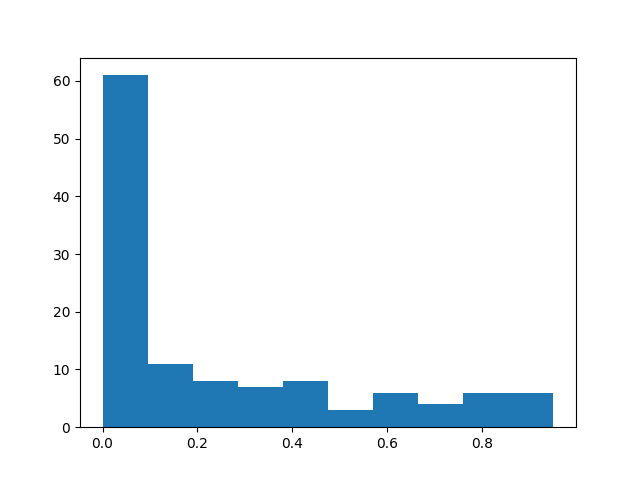
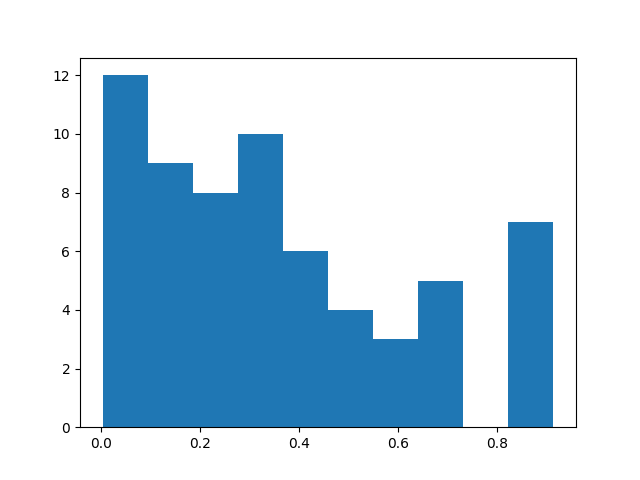
BIC exp

diff --git a/overconditioning.py b/overconditioning.py
@@ -34,7 +34,7 @@ def interval_DA(ns, nt, X_, B, S_, h_, a, b):
         interval = intersection.Intersec(interval, itv)
     return interval
 
-def interval_SFS(X, Y, K, lst_SELEC_k, lst_Portho, a, b):
+def interval_SFSabs(X, Y, K, lst_SELEC_k, lst_Portho, a, b):
     n_sample, n_fea = X.shape
 
     A=[]
@@ -94,6 +94,36 @@ def interval_SFS(X, Y, K, lst_SELEC_k, lst_Portho, a, b):
                 Vminus = max(Vminus, temp)
     return Vminus, Vplus
     # return np.around(Vminus, 10), np.around(Vplus, 10)
+def interval_SFS(X, Y, K, lst_SELEC_k, lst_Portho, a, b):
+    n_sample, n_fea = X.shape
+    intervals = [(-np.inf, np.inf)]
+    if K == n_fea:
+        return intervals
+    
+    I = np.identity(n_sample)  
+    for step in range(1, K + 1):
+        jk = lst_SELEC_k[-1]
+        X_jk = X[:, sorted(lst_SELEC_k[step])].copy()
+        Pjk = I - np.dot(np.dot(X_jk, np.linalg.inv(np.dot(X_jk.T, X_jk))), X_jk.T)
+
+        Pjk_a = Pjk.dot(a)
+        Pjk_b = Pjk.dot(b)
+        for j in range(n_fea):
+            if j not in lst_SELEC_k[step]:
+                Mj = lst_SELEC_k[step-1] + [j]
+                X_j = X[:, sorted(Mj)].copy()
+                Pj = I - np.dot(np.dot(X_j, np.linalg.inv(np.dot(X_j.T, X_j))), X_j.T)
+                Pj_a = Pj.dot(a)
+                Pj_b = Pj.dot(b)
+
+                g1 = Pjk_a.T.dot(Pjk_a) - Pj_a.T.dot(Pj_a)
+                g2 = Pjk_a.T.dot(Pjk_b) + Pjk_b.T.dot(Pjk_a) - Pj_a.T.dot(Pj_b) - Pj_b.T.dot(Pj_a)
+                g3 = Pjk_b.T.dot(Pjk_b) - Pj_b.T.dot(Pj_b)
+                g1, g2, g3 = g1.item(), g2.item(), g3.item()
+                itv = intersection.solve_quadratic_inequality(g3, g2, g1)
+
+                intervals = intersection.Intersec(intervals, itv)
+    return intervals 
 
 
 def interval_AIC(X, Y, Portho, K, a, b, Sigma, seed = 0):
@@ -167,21 +197,26 @@ def interval_AdjustedR2(X, Y, Portho, K, a, b, Sigma, seed = 0):
 
             intervals = intersection.Intersec(intervals, itv)
     return intervals 
-def OC_AIC_interval(ns, nt, a, b, XsXt_, Xtilde, Ytilde, Sigmatilde, B, S_, h_, SELECTION_F, GAMMA,seed = 0):
+def OC_Crit_interval(ns, nt, a, b, XsXt_, Xtilde, Ytilde, Sigmatilde, B, S_, h_, SELECTION_F, GAMMA,seed = 0):
 
     lst_SELECk, lst_P = ForwardSelection.list_residualvec(Xtilde, Ytilde)
 
     itvDA = interval_DA(ns, nt, XsXt_, B, S_, h_, a, b)
-    itvFS = [interval_SFS(Xtilde, Ytilde, 
+    itvFS = interval_SFS(Xtilde, Ytilde, 
                                     len(SELECTION_F),
                                     lst_SELECk, lst_P,
-                                    GAMMA.dot(a), GAMMA.dot(b))]
-    itvAIC = interval_AdjustedR2(Xtilde, Ytilde, 
-                                        lst_P, len(SELECTION_F), 
+                                    GAMMA.dot(a), GAMMA.dot(b))
+    # itvCriterion = interval_AIC(Xtilde, Ytilde, 
+    #                                     lst_P, len(SELECTION_F), 
+    #                                     GAMMA.dot(a), GAMMA.dot(b), Sigmatilde, seed)
+    itvCriterion = interval_BIC(Xtilde, Ytilde, 
+                                        lst_P, len(SELECTION_F),
                                         GAMMA.dot(a), GAMMA.dot(b), Sigmatilde, seed)
-
+    # itvCriterion = interval_AdjustedR2(Xtilde, Ytilde, 
+    #                                     lst_P, len(SELECTION_F),
+    #                                     GAMMA.dot(a), GAMMA.dot(b), Sigmatilde, seed)
     finalinterval = intersection.Intersec(itvDA, itvFS) 
-    finalinterval = intersection.Intersec(finalinterval, itvAIC)
+    finalinterval = intersection.Intersec(finalinterval, itvCriterion)
     # print(f"da: {itvDA} | fs: {itvFS} | aic: {itvAIC}")
     return finalinterval
 def OC_fixedFS_interval(ns, nt, a, b, XsXt_, Xtilde, Ytilde, Sigmatilde, B, S_, h_, SELECTION_F, GAMMA,):
@@ -189,10 +224,10 @@ def OC_fixedFS_interval(ns, nt, a, b, XsXt_, Xtilde, Ytilde, Sigmatilde, B, S_, 
     lst_SELECk, lst_P = ForwardSelection.list_residualvec(Xtilde, Ytilde)
 
     itvDA = interval_DA(ns, nt, XsXt_, B, S_, h_, a, b)
-    itvFS = [interval_SFS(Xtilde, Ytilde, 
+    itvFS = interval_SFS(Xtilde, Ytilde, 
                                     len(SELECTION_F),
                                     lst_SELECk, lst_P,
-                                    GAMMA.dot(a), GAMMA.dot(b))]
+                                    GAMMA.dot(a), GAMMA.dot(b))
     # print(itvDA, itvFS)
     finalinterval = intersection.Intersec(itvDA, itvFS) 
     return finalinterval, itvDA, itvFS
@@ -200,9 +235,9 @@ def OC_fixedFS_interval(ns, nt, a, b, XsXt_, Xtilde, Ytilde, Sigmatilde, B, S_, 
 
 def OC_FS_AIC_nonDA(n,a,b,X,Y,Sigma,SELECTION_F):
     lst_SELECk, lst_P = ForwardSelection.list_residualvec(X, Y)
-
-    itvFS = [interval_SFS(X, Y, len(SELECTION_F), lst_SELECk, lst_P, a, b)]
-    itvAIC = interval_AIC(X, Y, lst_P, len(SELECTION_F), a, b, Sigma)
+    # print(lst_SELECk)
+    itvFS = interval_SFS(X, Y, len(SELECTION_F), lst_SELECk, lst_P, a, b)
+    itvAIC = interval_AdjustedR2(X, Y, lst_P, len(SELECTION_F), a, b, Sigma)
 
     # finalinterval = intersection.Intersec(itvDA, itvFS) 
     finalinterval = intersection.Intersec(itvFS, itvAIC)

diff --git a/pivot.py b/pivot.py
@@ -25,7 +25,7 @@ def compute_p_value(intervals, etaT_Y, etaT_Sigma_eta):
     # compute two-sided selective p_value
     return 2 * min(cdf, 1 - cdf)
 
-def pvalue_DS(seed, ns, nt, p, true_betaS, true_betaT):
+def pvalue_DS(seed, ns, nt, p, true_betaS, true_betaT, k):
     """Return final p_value"""
     np.random.seed(seed)
 
@@ -71,9 +71,11 @@ def pvalue_DS(seed, ns, nt, p, true_betaS, true_betaT):
 
     Sigmatilde = GAMMA.T.dot(Sigma.dot(GAMMA))
     # Best model from 1...p models by AIC criterion
-    # SELECTION_F = FS.SelectionAIC(Ytilde, Xtilde, Sigmatilde)
-    k = 3
-    SELECTION_F = FS.fixedSelection(Ytilde, Xtilde, k)[0]
+    if k == -1:
+        # SELECTION_F = FS.SelectionBIC(Ytilde, Xtilde, Sigmatilde)
+        SELECTION_F = FS.SelectionAdjR2(Ytilde, Xtilde)
+    else:
+        SELECTION_F = FS.fixedSelection(Ytilde, Xtilde, k)[0]
     
     
     Xt_M = Xt_test[:, sorted(SELECTION_F)].copy()
@@ -101,7 +103,7 @@ def pvalue_DS(seed, ns, nt, p, true_betaS, true_betaT):
 
     return selective_p_value
 
-def pvalue_SI(seed, ns, nt, p, true_betaS, true_betaT):
+def pvalue_SI(seed, ns, nt, p, true_betaS, true_betaT, k):
     """Return final p_value"""
     np.random.seed(seed)
 
@@ -136,9 +138,13 @@ def pvalue_SI(seed, ns, nt, p, true_betaS, true_betaT):
 
     Sigmatilde = GAMMA.T.dot(Sigma.dot(GAMMA))
     # Best model from 1...p models by AIC criterion
-    # SELECTION_F = FS.SelectionAIC(Ytilde, Xtilde, Sigmatilde)
-    k = 3
-    SELECTION_F = FS.fixedSelection(Ytilde, Xtilde, k)[0]
+    if k == -1:
+        # SELECTION_F = FS.SelectionBIC(Ytilde, Xtilde, Sigmatilde)
+        SELECTION_F = FS.SelectionBIC(Ytilde, Xtilde, Sigmatilde)
+        # SELECTION_F = FS.SelectionAdjR2(Ytilde, Xtilde)
+    else:
+        SELECTION_F = FS.fixedSelection(Ytilde, Xtilde, k)[0]
+    # print(SELECTION_F)
     Xt_M = Xt[:, sorted(SELECTION_F)].copy()
 
     # Compute eta
@@ -162,14 +168,16 @@ def pvalue_SI(seed, ns, nt, p, true_betaS, true_betaT):
     # Test statistic
     etaTY = np.dot(eta.T, Y).item()
     # print(f"etay: {etaTY}")
-    # finalinterval = overconditioning.OC_fixedFS_interval(ns, nt, a, b, XsXt_, Xtilde, Ytilde, Sigmatilde, basis_var, S_, h_, SELECTION_F, GAMMA)[0]
-    # finalinterval = overconditioning.OC_AIC_interval(ns, nt, a, b, XsXt_, Xtilde, Ytilde, Sigmatilde, basis_var, S_, h_, SELECTION_F, GAMMA)
-    # finalinterval = parametric.para_DA_FSwithfixedK(ns, nt, a, b, X, Sigma, S_, h_, SELECTION_F)
-    # finalinterval = parametric.para_DA_FSwithAIC(ns, nt, a, b, X, Sigma, S_, h_, SELECTION_F,seed)
+    if k == -1:
+        finalinterval = parametric.para_DA_FSwithAIC(ns, nt, a, b, X, Sigma, S_, h_, SELECTION_F,seed)
+        # finalinterval = overconditioning.OC_Crit_interval(ns, nt, a, b, XsXt_, Xtilde, Ytilde, Sigmatilde, basis_var, S_, h_, SELECTION_F, GAMMA)
+    else:
+        finalinterval = parametric.para_DA_FSwithfixedK(ns, nt, a, b, X, Sigma, S_, h_, SELECTION_F)
+        # finalinterval = overconditioning.OC_fixedFS_interval(ns, nt, a, b, XsXt_, Xtilde, Ytilde, Sigmatilde, basis_var, S_, h_, SELECTION_F, GAMMA)[0]
     # print(f"Final interval: {finalinterval}")
 
     # Naive
-    finalinterval = [(-np.inf, np.inf)]
+    # finalinterval = [(-np.inf, np.inf)]
     
     selective_p_value = compute_p_value(finalinterval, etaTY, etaT_Sigma_eta)
     if selective_p_value == 999:

diff --git a/INIT_and_RUN.py b/INIT_and_RUN.py
@@ -11,17 +11,18 @@ def run(iter = 0):
     ns = 100
     nt = 10
     p = 5
-    betat = 3
+    betat = 4
     true_beta_s = np.full((p,1), 2) #source's beta
     true_beta_t = np.full((p,1), betat) #target's beta
+    k = -1 # k=-1 if choose based criterion
     #___________________________________________________________
 
-    pvalue = pivot.pvalue_DS(seed, ns, nt, p, true_beta_s, true_beta_t)
+    pvalue = pivot.pvalue_SI(seed, ns, nt, p, true_beta_s, true_beta_t,k)
 
     # pvalue = pivot_nonDA.pvalue_SI(seed, ns, p, true_beta_t)
 
     # Save pvalue into file
-    OCorPARA_FIXorAIC_FPRorTPR = 'para_AIC_FPR'
+    OCorPARA_FIXorAIC_FPRorTPR = 'para_BIC_TPR'
     filename = f'Experiment/Listpvalue_{OCorPARA_FIXorAIC_FPRorTPR}_{ns}_{p}.txt'
     # filename = f'Experiment/Listpvalue_{OCorPARA_FIXorAIC_FPRorTPR}_{ns}_{p}_{betat}.txt'
     # with open(filename, 'a') as f:
@@ -29,7 +30,7 @@ def run(iter = 0):
     return pvalue
 
 if __name__ == "__main__":
-    for i in range(1):
+    for i in range(50):
         # st = time.time()
         print(run())
         # en = time.time()

diff --git a/ForwardSelection.py b/ForwardSelection.py
@@ -14,16 +14,27 @@ def SelectionBIC(Y,X,Sigma):
     return bset
 
 def SelectionAdjR2(Y,X):
-    lRSS = np.inf
+    # lRSS = np.inf
+    # n, p = X.shape
+    # for i in range(1, p+1):
+    #     sset, rsdv = fixedSelection(Y, X, i)
+    #     lrss = (n-1)/(n-i-1)*rsdv.T.dot(rsdv)
+    #     if lrss < lRSS:
+    #         bset = sset
+    #         lRSS = lrss
+    # return bset
+    AdjR2 = -np.inf
     n, p = X.shape
+    TSS = np.linalg.norm(Y - np.mean(Y))**2
     for i in range(1, p+1):
         sset, rsdv = fixedSelection(Y, X, i)
-        lrss = (n-1)/(n-i-1)*rsdv.T.dot(rsdv)
-        if lrss < lRSS:
-            bset = sset
-            lRSS = lrss
-    return bset
+        RSS = np.linalg.norm(rsdv)**2
 
+        adjr2 = 1 - (RSS/(n-i-1))/(TSS/(n-1))
+        if adjr2 > AdjR2:
+            bset = sset
+            AdjR2 = adjr2
+    return bset
 def SelectionAIC(Y,X,Sigma):
     AIC = np.inf
     n, p = X.shape

diff --git a/parametric.py b/parametric.py
@@ -29,7 +29,7 @@ def para_DA_FSwithAIC(ns, nt, a, b, X, Sigma, S_, h_, SELECTION_F,seed = 0):
         Ytildeinloop = np.dot(GAMMAdeltaz, Ydeltaz)
 
         Sigmatilde_deltaz = GAMMAdeltaz.T.dot(Sigma.dot(GAMMAdeltaz))
-        SELECTIONinloop = ForwardSelection.SelectionAIC(Ytildeinloop, Xtildeinloop, Sigmatilde_deltaz)
+        SELECTIONinloop = ForwardSelection.SelectionBIC(Ytildeinloop, Xtildeinloop, Sigmatilde_deltaz)
         
         intervalinloop = overconditioning.OC_AIC_interval(ns, nt, a, b, XsXt_deltaz, 
                                                             Xtildeinloop, Ytildeinloop, Sigmatilde_deltaz, 

diff --git a/Parallel_computing.py b/Parallel_computing.py
@@ -7,10 +7,10 @@ import os
 from math import comb
 
 def main(st = 0):
-    max_iteration = 120
+    max_iteration = 64
     list_p_value = []
     # ssize = 50
-    alpha = 0.05 #/ (3*comb(5,3))#/ (5*2**4)
+    alpha = 0.05# / (5*2**4)#/ (3*comb(5,3))
     count = 0
     #print("core available: ", mpr.cpu_count())
     iter = range(max_iteration)

diff --git a/pivot_nonDA.py b/pivot_nonDA.py
@@ -34,7 +34,7 @@ def pvalue_SI(seed, n, p, true_betaT):
     # print(X)
     # print(Y)
     # Best model from 1...p models by AIC criterion
-    SELECTION_F = FS.SelectionAIC(Y, X, Sigma)
+    SELECTION_F = FS.SelectionAdjR2(Y, X)
     k = 3
     # SELECTION_F = FS.fixedSelection(Y, X, k)[0]
     X_M = X[:, sorted(SELECTION_F)].copy()
